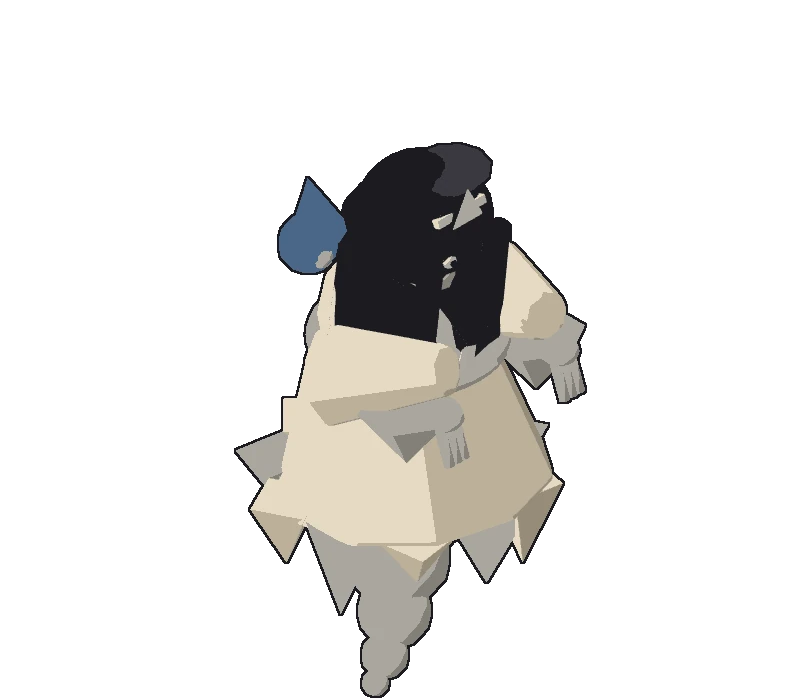
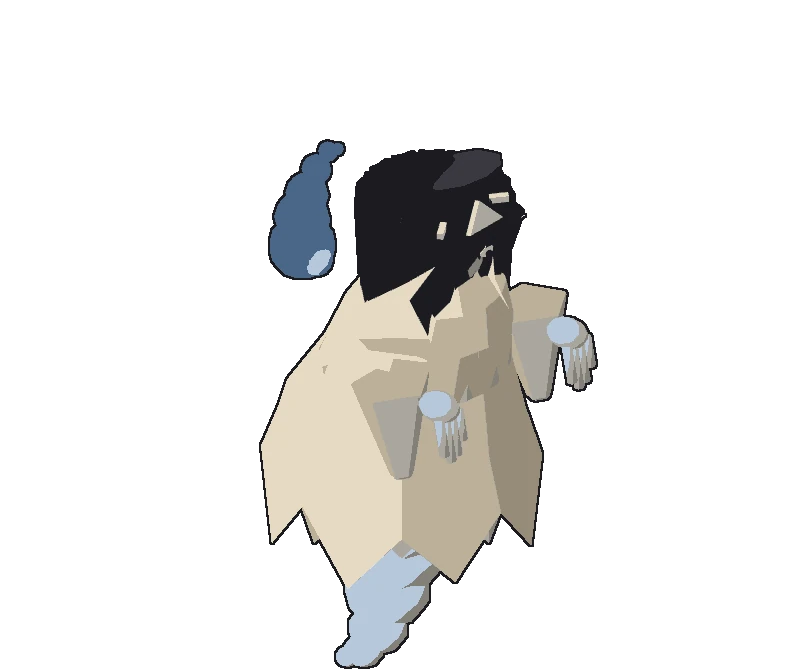
s3d: yurei sculpt pass 2 (ragged hem, strand hair, curling tail and flame, pale blue accents)
Claude-Session: https://claude.ai/code/session_016xiE3V6tfB4nFmsz4ivBY7

Changed region(s): [[0.2812, 0.1794, 0.75, 1.0]]

diff --git a/index.html b/index.html
@@ -647,7 +647,7 @@ if (S3D) for (const [pre, o] of Object.entries(U3D)) {
     ASSETS[`${pre}_${k}`] = { src: `assets/style/v2/u3d/${pre}_${pose}.webp`, pivotX: .5, facing: pose === "back" ? "right" : "left", wpp: o.h / (o.d || 395) }; }
 }
 if (S3D) for (const [k, f] of [["gh_drift_a", "front"], ["gh_drift_b", "front"], ["gh_attack", "side"], ["gh_death", "front"]])   // yūrei: one sculpt, the game bobs it
-  ASSETS[k] = { src: `assets/style/v2/u3d/gh_${f}.webp`, pivotX: .5, facing: "left", wpp: 44 / 527, floatY: 10 };
+  ASSETS[k] = { src: `assets/style/v2/u3d/gh_${f}.webp`, pivotX: .5, facing: "left", wpp: 52 / 527, floatY: 10 };
 if (S3D) for (const k of ["gsh_roar", "gsh_grab"]) ASSETS[k] = { src: "assets/style/v2/u3d/gsh_front.webp", pivotX: .5, facing: "left", wpp: 100 / 527 };
 // palisade pieces (straight pieces run up-right; the renderer mirrors them for the other axis)
 if (S3D) { for (const id of ["pal_wall_a", "pal_wall_b", "pal_corner"]) ASSETS[id] = { src: "assets/style/v2/b3d/wall_b.webp", pw: 46 };

diff --git a/tools/bl_yurei.py b/tools/bl_yurei.py
@@ -1,90 +1,124 @@
-import bpy, math, bmesh
-from mathutils import Vector
+import bpy, math, bmesh, random
+from mathutils import Vector, Matrix
 bpy.ops.wm.read_factory_settings(use_empty=True)
+random.seed(7)
+R = math.radians
 
 def lin(c):
     c = c / 255
     return c / 12.92 if c <= 0.04045 else ((c + 0.055) / 1.055) ** 2.4
 
-def mat(name, rgb, emit=0):
+def mat(name, rgb):
     m = bpy.data.materials.new(name); m.use_nodes = True
     b = m.node_tree.nodes["Principled BSDF"]
     b.inputs["Base Color"].default_value = (*[lin(c) for c in rgb], 1)
     b.inputs["Roughness"].default_value = 1
     return m
 
-ROBE = mat("robe", (232, 224, 204)); ROBE2 = mat("robe2", (200, 194, 180)); HAIR = mat("hair", (34, 34, 40)); SHEEN = mat("sheen", (70, 70, 80))
-SKIN = mat("skin", (196, 200, 204)); TAIL = mat("tail", (178, 196, 214)); FLAME = mat("flame", (96, 150, 214))
-BAND = mat("band", (240, 236, 222)); FLAME2 = mat("flame2", (190, 214, 236))
+ROBE = mat("robe", (232, 224, 204)); ROBE2 = mat("robe2", (206, 198, 182)); HAIR = mat("hair", (30, 30, 36))
+SHEEN = mat("sheen", (66, 66, 76)); SKIN = mat("skin", (200, 206, 212)); TAIL = mat("tail", (182, 200, 218))
+FLAME = mat("flame", (86, 140, 210)); FLAME2 = mat("flame2", (182, 208, 234)); BAND = mat("band", (242, 238, 226))
+EYE = mat("eye", (242, 240, 232))
+
+def obj_from_bm(bm, m, name="mesh", smooth=False):
+    me = bpy.data.meshes.new(name); bm.to_mesh(me); bm.free()
+    o = bpy.data.objects.new(name, me); bpy.context.collection.objects.link(o); o.data.materials.append(m)
+    if smooth:
+        for p in me.polygons: p.use_smooth = True
+    return o
 
 def add(op, m, bevel=0.0, smooth=False, **kw):
     op(**kw); o = bpy.context.active_object; o.data.materials.append(m)
     if bevel:
         md = o.modifiers.new("b", "BEVEL"); md.width = bevel; md.segments = 2
-    if smooth:
-        bpy.ops.object.shade_smooth()
+    if smooth: bpy.ops.object.shade_smooth()
     return o
 
 cube = bpy.ops.mesh.primitive_cube_add; cyl = bpy.ops.mesh.primitive_cylinder_add
 cone = bpy.ops.mesh.primitive_cone_add; sph = bpy.ops.mesh.primitive_uv_sphere_add
-R = math.radians
-# front of the figure faces -Y (glTF +Z), like the other baked models
 
-# --- robe: hunched bell, wide ragged hem
-body = add(cone, ROBE, 0.02, vertices=10, radius1=0.42, radius2=0.2, depth=0.72, location=(0, 0.04, 0.72), rotation=(R(-8), 0, 0))
-# ragged hem teeth
-for i in range(10):
-    a = 2 * math.pi * i / 10 + 0.3
-    L = 0.16 + 0.07 * (i % 3)
-    add(cone, ROBE2 if i % 2 else ROBE, 0, vertices=4, radius1=0.12, radius2=0.0, depth=L,
-        location=(0.37 * math.cos(a), 0.06 + 0.37 * math.sin(a), 0.36 - L / 2 + 0.02), rotation=(R(180), 0, a))
-# belt
-add(bpy.ops.mesh.primitive_torus_add, ROBE2, 0, major_radius=0.27, minor_radius=0.035, location=(0, 0.02, 0.88))
-# kimono collar (left over right): two flat slabs crossing on the chest
+def lathe(profile, segs, m, name, jag=None, lean=0.0):
+    """Revolve [(radius, z)] around Z. jag(i, ring) -> z offset for a ragged hem. lean pushes upper rings toward -Y (hunch)."""
+    bm = bmesh.new(); rings = []
+    for k, (r, z) in enumerate(profile):
+        ring = []
+        for i in range(segs):
+            a = 2 * math.pi * i / segs
+            dz = jag(i, k) if jag else 0
+            ring.append(bm.verts.new((r * math.cos(a), r * math.sin(a) - lean * max(0, z - 0.6), z + dz)))
+        rings.append(ring)
+    for k in range(len(rings) - 1):
+        for i in range(segs):
+            j = (i + 1) % segs
+            bm.faces.new((rings[k][i], rings[k][j], rings[k + 1][j], rings[k + 1][i]))
+    bm.faces.new(list(reversed(rings[-1])))
+    bm.normal_update()
+    return obj_from_bm(bm, m, name)
+
+# ---------------- robe: hunched bell, ragged hem of long and short tatters
+hem = [-(0.22 if i % 2 else random.choice([0.0, 0.04])) - random.random() * 0.06 for i in range(16)]
+lathe([(0.42, 0.44), (0.37, 0.58), (0.29, 0.8), (0.26, 0.98), (0.21, 1.12), (0.12, 1.2)], 16, ROBE, "robe",
+      jag=lambda i, k: hem[i] if k == 0 else 0, lean=0.28)
+lathe([(0.37, 0.47), (0.35, 0.62)], 16, ROBE2, "robe_inner", jag=lambda i, k: hem[(i + 1) % 16] * 0.8 if k == 0 else 0)
+lathe([(0.29, 0.80), (0.27, 0.88)], 14, ROBE2, "obi", lean=0.28)
+for s in (1, -1):   # collar, left over right
+    add(cube, BAND, 0.008, size=1, location=(0.055 * s, -0.25, 1.0), scale=(0.06, 0.025, 0.24), rotation=(R(-18), R(26 * s), 0))
+
+# ---------------- tail: wisp curling out from under the hem
+for x, y, z, r in [(0.0, 0.03, 0.44, 0.24), (-0.04, 0.0, 0.3, 0.18), (-0.1, -0.04, 0.18, 0.13), (-0.17, -0.07, 0.09, 0.09), (-0.23, -0.07, 0.04, 0.06), (-0.27, -0.04, 0.02, 0.035)]:
+    add(sph, TAIL, 0, smooth=True, segments=10, ring_count=7, radius=r, location=(x, y, z), scale=(1, 1, 0.8))
+
+# ---------------- sleeves: wide drooping bells held forward
 for s in (1, -1):
-    add(cube, BAND, 0.01, size=1, location=(0.05 * s, -0.19, 1.0), scale=(0.07, 0.03, 0.26), rotation=(R(-10), R(28 * s), 0))
+    sl = lathe([(0.075, 0.0), (0.12, 0.2), (0.16, 0.34)], 8, ROBE, f"sleeve{s}",
+               jag=lambda i, k: (-0.05 if i % 2 else 0.0) if k == 2 else 0)
+    sl.rotation_euler = (R(62), 0, R(-14 * s)); sl.location = (0.25 * s, -0.12, 1.06)
+    add(cone, ROBE2, 0.01, vertices=5, radius1=0.13, radius2=0.04, depth=0.32, location=(0.29 * s, -0.27, 0.78), rotation=(R(172), 0, 0))
+    hx, hy, hz = 0.27 * s, -0.43, 0.93
+    add(sph, SKIN, 0, smooth=True, segments=10, ring_count=7, radius=0.055, location=(hx, hy, hz), scale=(1.0, 1.3, 0.75))
+    for f in range(4):
+        L = (0.12, 0.15, 0.14, 0.1)[f]
+        add(cyl, SKIN, 0, smooth=True, vertices=6, radius=0.016, depth=L,
+            location=(hx + (f - 1.5) * 0.026, hy - 0.05, hz - L / 2 - 0.01), rotation=(R(-12), 0, 0))
 
-# --- ghost tail: curling wisp under the hem, cold blue-white
+# ---------------- head, bowed forward
+HX, HY, HZ = 0.0, -0.17, 1.32
+add(sph, SKIN, 0, smooth=True, segments=14, ring_count=10, radius=0.15, location=(HX, HY - 0.01, HZ - 0.02), scale=(0.9, 0.95, 1.1))
+add(sph, HAIR, 0, segments=12, ring_count=8, radius=0.19, location=(HX, HY + 0.03, HZ + 0.04), scale=(1.0, 1.0, 0.95))
+add(sph, SHEEN, 0, segments=10, ring_count=6, radius=0.09, location=(HX + 0.06, HY - 0.02, HZ + 0.19), scale=(1.5, 1.3, 0.3), rotation=(R(-18), 0, 0))
 
-
-# --- sleeves: big drooping bells held forward at chest height
+def strand(x, y, z, w, L, rotz, tilt=0.0, m=HAIR):
+    bm = bmesh.new(); t = 0.035
+    v = [bm.verts.new(p) for p in [(-w, -t, 0), (w, -t, 0), (w, t, 0), (-w, t, 0), (-w * 0.35, -t * 0.6, -L), (w * 0.35, -t * 0.6, -L), (w * 0.35, t * 0.6, -L), (-w * 0.35, t * 0.6, -L)]]
+    for f in [(0, 1, 2, 3), (7, 6, 5, 4), (0, 4, 5, 1), (1, 5, 6, 2), (2, 6, 7, 3), (3, 7, 4, 0)]:
+        bm.faces.new([v[i] for i in f])
+    o = obj_from_bm(bm, m, "strand"); o.location = (x, y, z); o.rotation_euler = (R(tilt), 0, rotz)
+    return o
+for i in range(12):   # sides and back: a ring of long tapered strands
+    a = math.pi * (-0.15 + 1.3 * i / 11)
+    strand(HX + 0.19 * math.cos(a), HY + 0.03 + 0.19 * math.sin(a), HZ + 0.1, 0.075, 0.5 + 0.08 * (i % 3), a + math.pi / 2)
+for x, L, tl in [(0.09, 0.5, 14), (-0.025, 0.46, 16), (-0.12, 0.4, 12)]:   # front curtain, gap shows one eye
+    strand(HX + x, HY - 0.15, HZ + 0.08, 0.05 if x < 0 else 0.07, L, 0, tilt=tl)
+add(sph, EYE, 0, smooth=True, segments=10, ring_count=7, radius=0.03, location=(HX + 0.035, HY - 0.15, HZ - 0.02), scale=(1, 0.6, 0.8))
+add(sph, HAIR, 0, smooth=True, segments=8, ring_count=6, radius=0.013, location=(HX + 0.03, HY - 0.17, HZ - 0.025))
+# hitaikakushi triangle above the curtain, headband visible at the temples
+bm = bmesh.new(); v = [bm.verts.new(p) for p in [(-0.07, 0, 0), (0.07, 0, 0), (0, 0, 0.085)]]; bm.faces.new(v)
+tri = obj_from_bm(bm, BAND, "hitai"); tri.location = (HX, HY - 0.19, HZ + 0.1); tri.rotation_euler = (R(-22), 0, 0)
+tri.modifiers.new("s", "SOLIDIFY").thickness = 0.02
 for s in (1, -1):
-    sl = add(cone, ROBE, 0.02, vertices=8, radius1=0.16, radius2=0.08, depth=0.42,
-             location=(0.26 * s, -0.16, 0.96), rotation=(R(70), 0, R(-18 * s)))
-    sl2 = add(cone, ROBE2, 0, vertices=6, radius1=0.15, radius2=0.0, depth=0.2,   # hanging sleeve flap
-              location=(0.27 * s, -0.24, 0.78), rotation=(R(180), 0, 0))
-    # limp hand and dangling fingers
-    hx, hy, hz = 0.24 * s, -0.36, 0.9
-    add(sph, SKIN, 0, smooth=True, segments=10, ring_count=8, radius=0.06, location=(hx, hy, hz), scale=(1, 1.2, 0.8))
-    for f in range(3):
-        add(cyl, SKIN, 0, smooth=True, vertices=6, radius=0.017, depth=0.13,
-            location=(hx + (f - 1) * 0.03, hy - 0.04, hz - 0.08), rotation=(R(-20), 0, 0))
+    add(cube, BAND, 0, size=1, location=(HX + 0.12 * s, HY - 0.12, HZ + 0.11), scale=(0.06, 0.02, 0.022), rotation=(0, 0, R(-35 * s)))
 
-# --- head, mostly hidden by hair
-add(sph, SKIN, 0, smooth=True, segments=14, ring_count=10, radius=0.17, location=(0, -0.06, 1.28))
-# hair: a heavy curtain, back mass + front fringe falling over the face, a narrow gap on one side
-add(cone, HAIR, 0.03, vertices=10, radius1=0.27, radius2=0.2, depth=0.6, location=(0, 0.03, 1.05), scale=(1.0, 0.9, 1.0))
-add(sph, SHEEN, 0, smooth=True, segments=12, ring_count=8, radius=0.1, location=(0.06, -0.08, 1.49), scale=(1.4, 1.2, 0.35))
-add(sph, HAIR, 0, smooth=True, segments=14, ring_count=10, radius=0.205, location=(0, -0.04, 1.33))
-add(cube, HAIR, 0.02, size=1, location=(0.06, -0.2, 1.08), scale=(0.2, 0.06, 0.52), rotation=(R(6), 0, 0))
-add(cube, HAIR, 0.02, size=1, location=(-0.14, -0.18, 1.04), scale=(0.08, 0.06, 0.56), rotation=(R(6), 0, R(8)))
-# one pale eye in the gap
-add(sph, BAND, 0, smooth=True, segments=8, ring_count=6, radius=0.025, location=(-0.07, -0.215, 1.3))
-add(sph, HAIR, 0, segments=8, ring_count=6, radius=0.012, location=(-0.07, -0.235, 1.3))
-# headband with the white triangle (hitaikakushi)
-add(cube, BAND, 0.005, size=1, location=(0, -0.19, 1.43), scale=(0.2, 0.03, 0.03), rotation=(R(-20), 0, 0))
-add(cone, BAND, 0.005, vertices=3, radius1=0.08, radius2=0, depth=0.02, location=(0, -0.235, 1.45), rotation=(R(90), 0, 0), scale=(1, 1.1, 1))
+# ---------------- hitodama: spirit flame with a curling tip
+fx, fy, fz = -0.44, -0.02, 1.4
+add(sph, FLAME, 0, smooth=True, segments=12, ring_count=8, radius=0.1, location=(fx, fy, fz))
+for x, y, z, r in [(0.0, 0.0, 0.1, 0.085), (0.02, 0.0, 0.18, 0.065), (0.06, 0.0, 0.25, 0.045), (0.11, 0.0, 0.29, 0.03), (0.15, 0.0, 0.28, 0.018)]:
+    add(sph, FLAME, 0, smooth=True, segments=10, ring_count=6, radius=r, location=(fx + x, fy + y, fz + z))
+add(sph, FLAME2, 0, smooth=True, segments=10, ring_count=6, radius=0.05, location=(fx - 0.01, fy - 0.07, fz - 0.01))
 
-# --- hitodama: blue spirit flame floating by the right shoulder
-fx, fy, fz = -0.42, 0.02, 1.42
-add(sph, FLAME, 0, smooth=True, segments=12, ring_count=8, radius=0.09, location=(fx, fy, fz))
-add(cone, FLAME, 0, smooth=True, vertices=10, radius1=0.085, radius2=0, depth=0.22, location=(fx + 0.02, fy, fz + 0.13), rotation=(0, R(-12), 0))
-add(sph, FLAME2, 0, smooth=True, segments=10, ring_count=6, radius=0.04, location=(fx - 0.01, fy - 0.06, fz - 0.01))
-
+# ---------------- float: everything but the tail rises
 for o in bpy.data.objects:
-    if not o.name.startswith("tail"): o.location.z += 0.22
-for i, (x, y, z, r) in enumerate([(0.0, 0.06, 0.5, 0.21), (-0.05, 0.02, 0.33, 0.16), (-0.12, -0.04, 0.19, 0.11), (-0.2, -0.08, 0.09, 0.07), (-0.26, -0.1, 0.03, 0.04)]):
-    o = add(sph, TAIL, 0, smooth=True, segments=12, ring_count=8, radius=r, location=(x, y, z)); o.name = f"tail{i}"
+    if o.data and o.data.materials and o.data.materials[0].name != "tail": o.location.z += 0.2
 for o in bpy.data.objects: o.select_set(True)
+bpy.context.view_layer.objects.active = bpy.data.objects[0]
 bpy.ops.export_scene.gltf(filepath="/home/claude/sengoku-playtest/proto3d/models/kit/bl_yurei.glb", export_apply=True)
-print("ok")
+print("ok", len(bpy.data.objects))

diff --git a/tools/bake.py b/tools/bake.py
@@ -7,6 +7,7 @@ from playwright.async_api import async_playwright
 PAL = np.array([[27,27,31],[58,58,64],[229,218,194],[188,176,152],[150,140,120],[74,52,40],[122,86,56],[156,127,74],[110,86,52],[199,173,112],[158,134,80],[170,166,158],[132,128,120],[96,93,88],[111,138,94],[76,99,68],[200,55,45],[140,38,32],[74,103,136],[217,180,143]],float)
 def snap(im):
     P=PAL[:-1] if os.environ.get('NORM')=='fp' else PAL
+    if os.environ.get('PAL_EXTRA'): P=np.vstack([P,np.array([[int(c) for c in t.split(',')] for t in os.environ['PAL_EXTRA'].split(';')],float)])
     a=np.asarray(im).astype(float); rgb=a[...,:3]; al=a[...,3]
     from skimage.color import rgb2lab
     L=rgb2lab(rgb/255.0); LP=rgb2lab((P/255.0)[None])[0]

diff --git a/docs/S3D_ASSET_LEDGER.md b/docs/S3D_ASSET_LEDGER.md
@@ -90,4 +90,4 @@ Kittl concepts (2048 or 832x1248 PNG) and Tripo task pages. Tripo: https://studi
 ## Waiting for Tripo credits (concepts ready)
 - Yūrei ghost, the most common enemy (picked B): `cmwo370zg000100iltkc75nan` (hunched, ragged hem, hitodama flame). Alt A (taller, no flame): `cmwo370aj000000ilic7xrsh5`.
 - Oni brute: `cmwnqhy06000300ilzdxfcc7w`.
-- Yūrei: built in Blender as a first pass (`tools/bl_yurei.py` → `gh_front|side.webp`, baked with `LY=.45 CROPB=1`). Replace with a modelled version from concept B when credits refresh if it needs more finish. The brute still shows old 2D art.
+- Yūrei: built in Blender as a first pass (`tools/bl_yurei.py` → `gh_front|side.webp`, baked with `PAL_EXTRA="182,200,218;214,226,236" LY=.45 CROPB=1`, front = rot 90, side = rot 0; the extra pale blues are for the tail and hands). Replace with a modelled version from concept B when credits refresh if it needs more finish. The brute still shows old 2D art.
